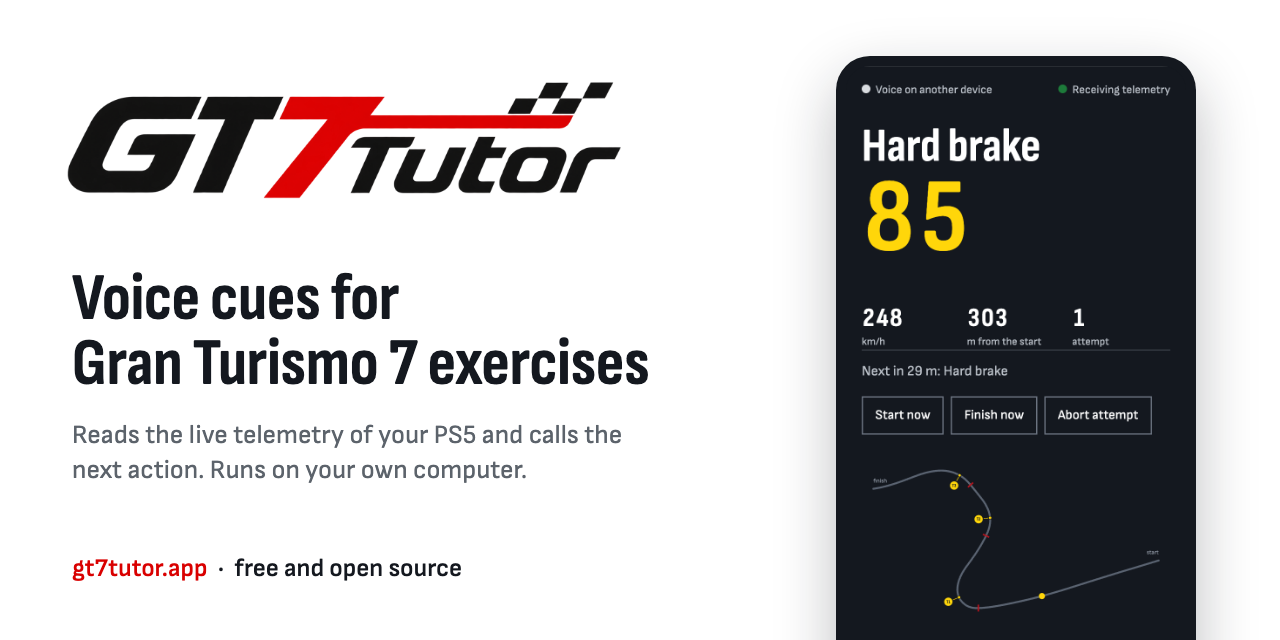
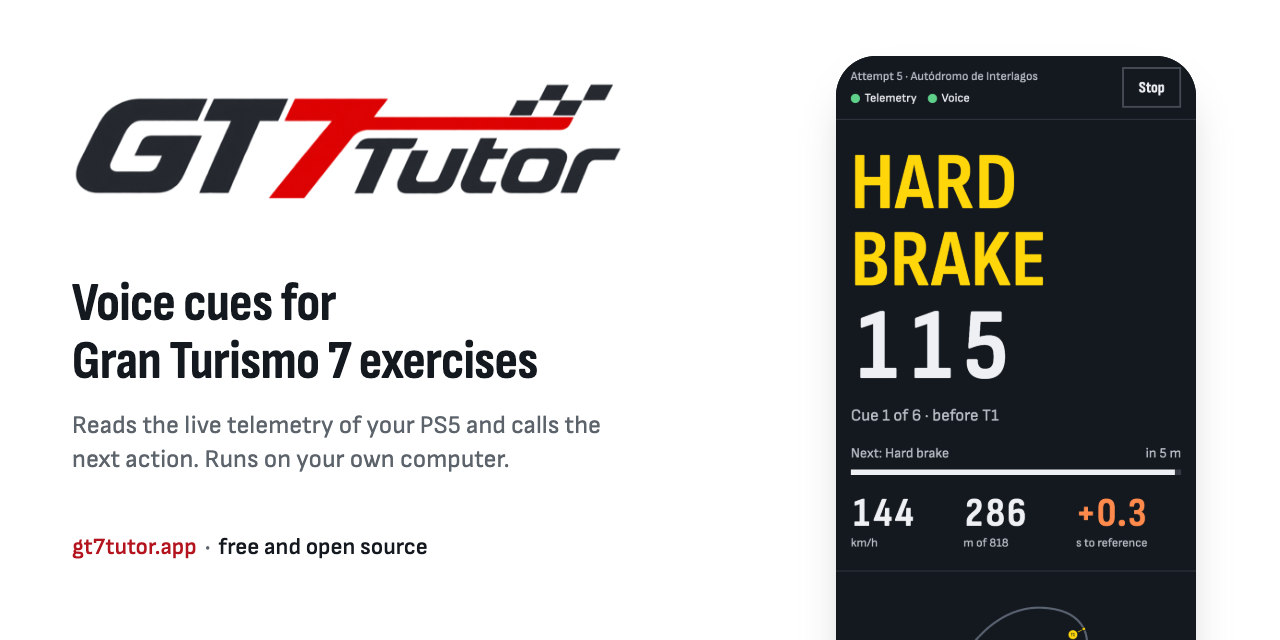
docs: replace the social preview with the current demo

diff --git a/site/index.html b/site/index.html
@@ -15,7 +15,7 @@
 <meta property="og:image" content="https://gt7tutor.app/assets/screenshots/social.png">
 <meta property="og:image:width" content="1280">
 <meta property="og:image:height" content="640">
-<meta property="og:image:alt" content="The GT7 Tutor logo and a phone that shows the cue Hard brake 85 and the track.">
+<meta property="og:image:alt" content="The GT7 Tutor logo and a phone that shows the Drive screen with the cue Hard brake 115, the speed, the distance and the gap to the reference.">
 <meta name="twitter:card" content="summary_large_image">
 <link rel="icon" href="favicon.svg" type="image/svg+xml">
 <link rel="stylesheet" href="styles.css?v=9b62fe36e6">
